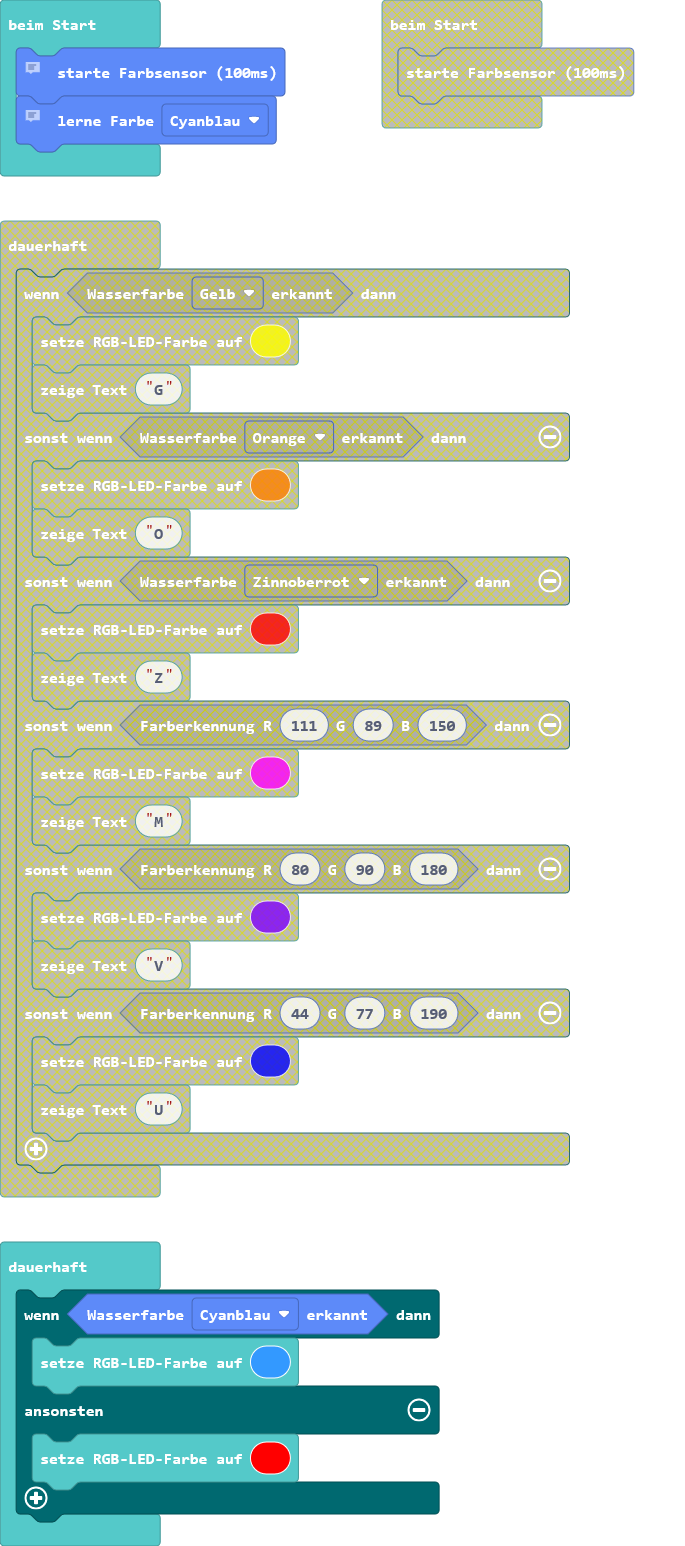
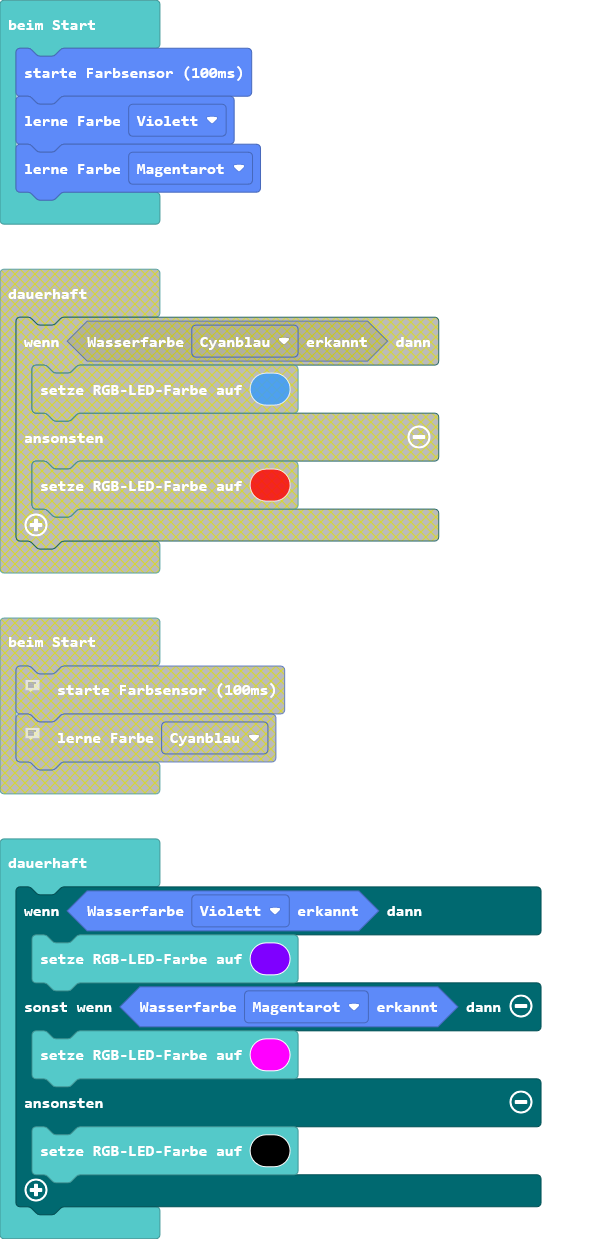
LEDFlackern und kleine Fehler entfernt

diff --git a/columbuseye.ts b/columbuseye.ts
@@ -413,57 +413,56 @@ namespace TCS34725 {
     //% blockId="LernFarbe" block="lerne Farbe %color"
     //% group="Beim Start"
     export function LernFarbe (color:Wasserfarben) {
-        let erkannt : boolean;
 
     basic.showIcon(IconNames.ArrowWest)
     switch (color) {
-    case Wasserfarben.Schwarz : { while (!(input.buttonIsPressed(Button.A))) {
-    basic.setLedColor(0x000000) }
+    case Wasserfarben.Schwarz : { basic.setLedColor(0x000000)
+    while (!(input.buttonIsPressed(Button.A))) { }
     schwarz = [TCS34725.getSensorData(RGB.RED), TCS34725.getSensorData(RGB.GREEN), TCS34725.getSensorData(RGB.BLUE)]}
      break;
-    case Wasserfarben.Magenta : { while (!(input.buttonIsPressed(Button.A))) {
-    basic.setLedColor(0xff00ff) }
+    case Wasserfarben.Magenta : { basic.setLedColor(0xff00ff)
+    while (!(input.buttonIsPressed(Button.A))) { }
     magenta = [TCS34725.getSensorData(RGB.RED), TCS34725.getSensorData(RGB.GREEN), TCS34725.getSensorData(RGB.BLUE)]}
      break; 
-    case Wasserfarben.Zinnober : { while (!(input.buttonIsPressed(Button.A))) {
-    basic.setLedColor(0xff0000) }
+    case Wasserfarben.Zinnober : { basic.setLedColor(0xff0000)
+    while (!(input.buttonIsPressed(Button.A))) { }
     zinnober = [TCS34725.getSensorData(RGB.RED), TCS34725.getSensorData(RGB.GREEN), TCS34725.getSensorData(RGB.BLUE)]}
      break;
-    case Wasserfarben.Gelb : { while (!(input.buttonIsPressed(Button.A))) {
-    basic.setLedColor(0xffff00) }
+    case Wasserfarben.Gelb : { basic.setLedColor(0xffff00)
+    while (!(input.buttonIsPressed(Button.A))) { }
     gelb = [TCS34725.getSensorData(RGB.RED), TCS34725.getSensorData(RGB.GREEN), TCS34725.getSensorData(RGB.BLUE)]}
      break;
-    case Wasserfarben.Orange : { while (!(input.buttonIsPressed(Button.A))) {
-    basic.setLedColor(0xff8000) }
+    case Wasserfarben.Orange : { basic.setLedColor(0xff8000)
+    while (!(input.buttonIsPressed(Button.A))) { }
     orange = [TCS34725.getSensorData(RGB.RED), TCS34725.getSensorData(RGB.GREEN), TCS34725.getSensorData(RGB.BLUE)]}
      break;
-    case Wasserfarben.Ocker : { while (!(input.buttonIsPressed(Button.A))) {
-    basic.setLedColor(0xD4A012) }
+    case Wasserfarben.Ocker : { basic.setLedColor(0xD4A012)
+    while (!(input.buttonIsPressed(Button.A))) { }
     ocker = [TCS34725.getSensorData(RGB.RED), TCS34725.getSensorData(RGB.GREEN), TCS34725.getSensorData(RGB.BLUE)]}
      break;
-    case Wasserfarben.Violett : { while (!(input.buttonIsPressed(Button.A))) {
-    basic.setLedColor(0x7f00ff) }
+    case Wasserfarben.Violett : { basic.setLedColor(0x7f00ff) 
+    while (!(input.buttonIsPressed(Button.A))) { }
     violett = [TCS34725.getSensorData(RGB.RED), TCS34725.getSensorData(RGB.GREEN), TCS34725.getSensorData(RGB.BLUE)]}
      break;
-    case Wasserfarben.Ultramarin : { while (!(input.buttonIsPressed(Button.A))) {
-    basic.setLedColor(0x0000ff) }
+    case Wasserfarben.Ultramarin : { basic.setLedColor(0x0000ff)
+    while (!(input.buttonIsPressed(Button.A))) { }
     ultramarin = [TCS34725.getSensorData(RGB.RED), TCS34725.getSensorData(RGB.GREEN), TCS34725.getSensorData(RGB.BLUE)]}
      break;
-    case Wasserfarben.Cyan : { while (!(input.buttonIsPressed(Button.A))) {
-    basic.setLedColor(0x3399ff) }
-    gelb = [TCS34725.getSensorData(RGB.RED), TCS34725.getSensorData(RGB.GREEN), TCS34725.getSensorData(RGB.BLUE)]}
+    case Wasserfarben.Cyan : { basic.setLedColor(0x3399ff)
+    while (!(input.buttonIsPressed(Button.A))) { }
+    cyan = [TCS34725.getSensorData(RGB.RED), TCS34725.getSensorData(RGB.GREEN), TCS34725.getSensorData(RGB.BLUE)]}
      break;
-    case Wasserfarben.Blaugr : { while (!(input.buttonIsPressed(Button.A))) {
-    basic.setLedColor(0x008000) }
-    gelb = [TCS34725.getSensorData(RGB.RED), TCS34725.getSensorData(RGB.GREEN), TCS34725.getSensorData(RGB.BLUE)]}
+    case Wasserfarben.Blaugr : { basic.setLedColor(0x008000)
+    while (!(input.buttonIsPressed(Button.A))) { }
+    blaugr = [TCS34725.getSensorData(RGB.RED), TCS34725.getSensorData(RGB.GREEN), TCS34725.getSensorData(RGB.BLUE)]}
      break;
-    case Wasserfarben.Gelbgr : { while (!(input.buttonIsPressed(Button.A))) {
-    basic.setLedColor(0xadff2f) }
-    gelb = [TCS34725.getSensorData(RGB.RED), TCS34725.getSensorData(RGB.GREEN), TCS34725.getSensorData(RGB.BLUE)]}
+    case Wasserfarben.Gelbgr : { basic.setLedColor(0xadff2f)
+    while (!(input.buttonIsPressed(Button.A))) { }
+    gelbgr = [TCS34725.getSensorData(RGB.RED), TCS34725.getSensorData(RGB.GREEN), TCS34725.getSensorData(RGB.BLUE)]}
      break;
-    case Wasserfarben.GebrSiena : { while (!(input.buttonIsPressed(Button.A))) {
-    basic.setLedColor(0xa0522d) }
-    gelb = [TCS34725.getSensorData(RGB.RED), TCS34725.getSensorData(RGB.GREEN), TCS34725.getSensorData(RGB.BLUE)]}
+    case Wasserfarben.GebrSiena : { basic.setLedColor(0xa0522d)
+    while (!(input.buttonIsPressed(Button.A))) { }
+    gebrsiena = [TCS34725.getSensorData(RGB.RED), TCS34725.getSensorData(RGB.GREEN), TCS34725.getSensorData(RGB.BLUE)]}
      break;
      }
     basic.setLedColor(0x000000)

diff --git a/main.ts b/main.ts
@@ -1,11 +1,12 @@
-// Sensor initialisieren
 TCS34725.start()
-// Farbe Cyanblau einlernen
-TCS34725.LernFarbe(Wasserfarben.Cyan)
+TCS34725.LernFarbe(Wasserfarben.Violett)
+TCS34725.LernFarbe(Wasserfarben.Magenta)
 basic.forever(function () {
-    if (TCS34725.Wasserfarbe(Wasserfarben.Cyan)) {
-        basic.setLedColor(0x3399ff)
+    if (TCS34725.Wasserfarbe(Wasserfarben.Violett)) {
+        basic.setLedColor(0x7f00ff)
+    } else if (TCS34725.Wasserfarbe(Wasserfarben.Magenta)) {
+        basic.setLedColor(0xff00ff)
     } else {
-        basic.setLedColor(0xff0000)
+        basic.setLedColor(0x000000)
     }
 })
